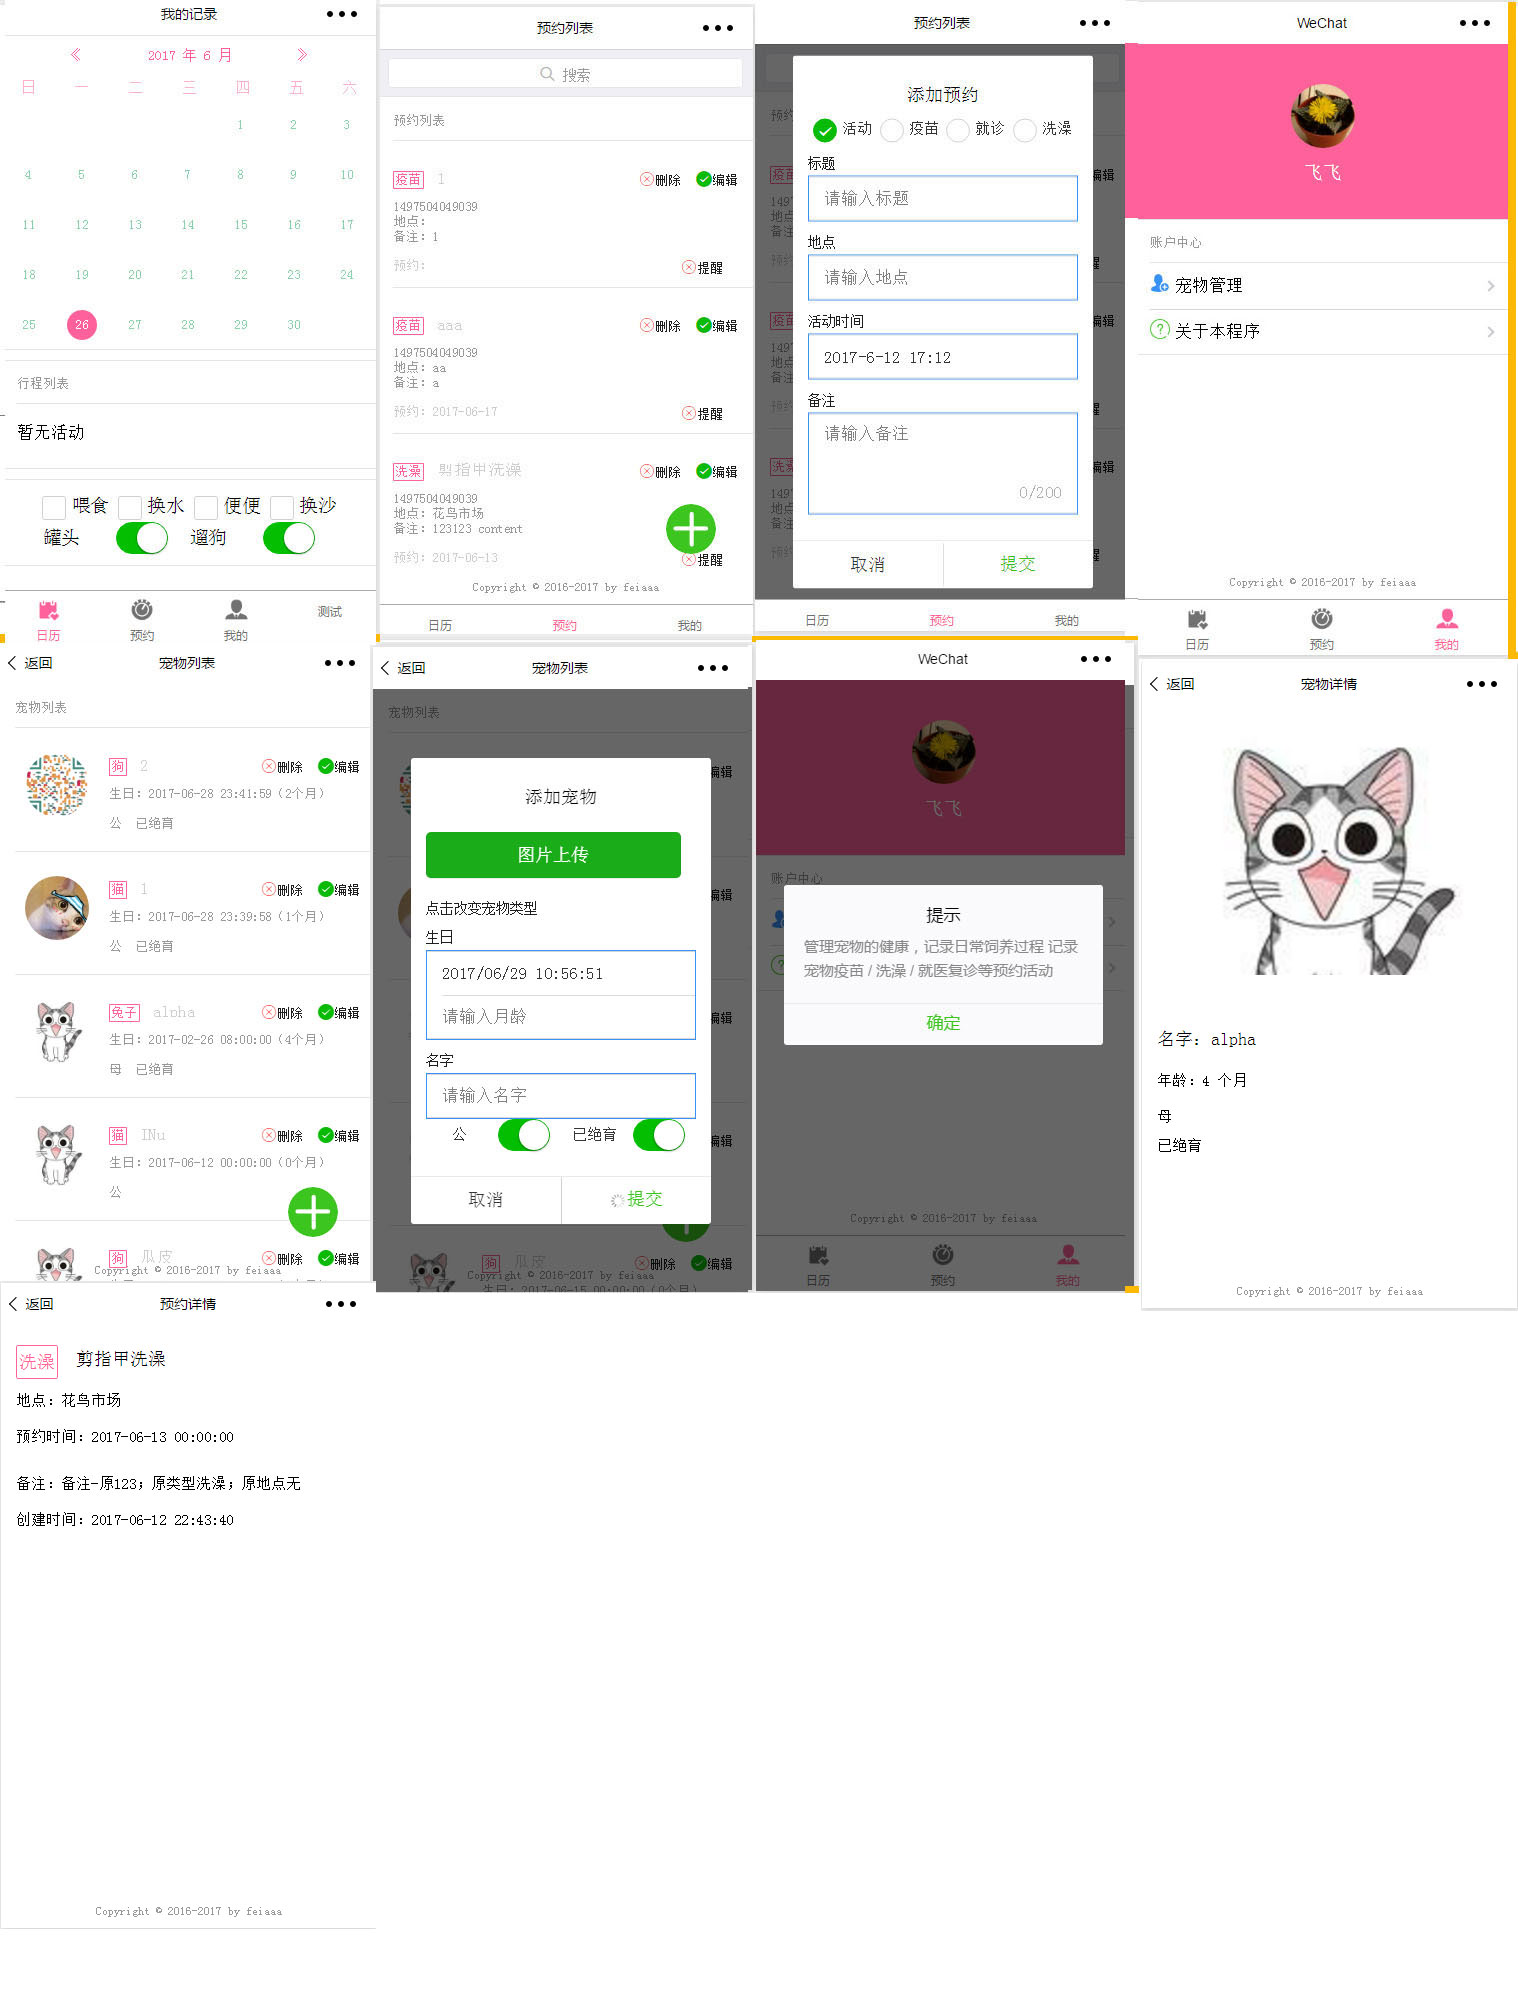
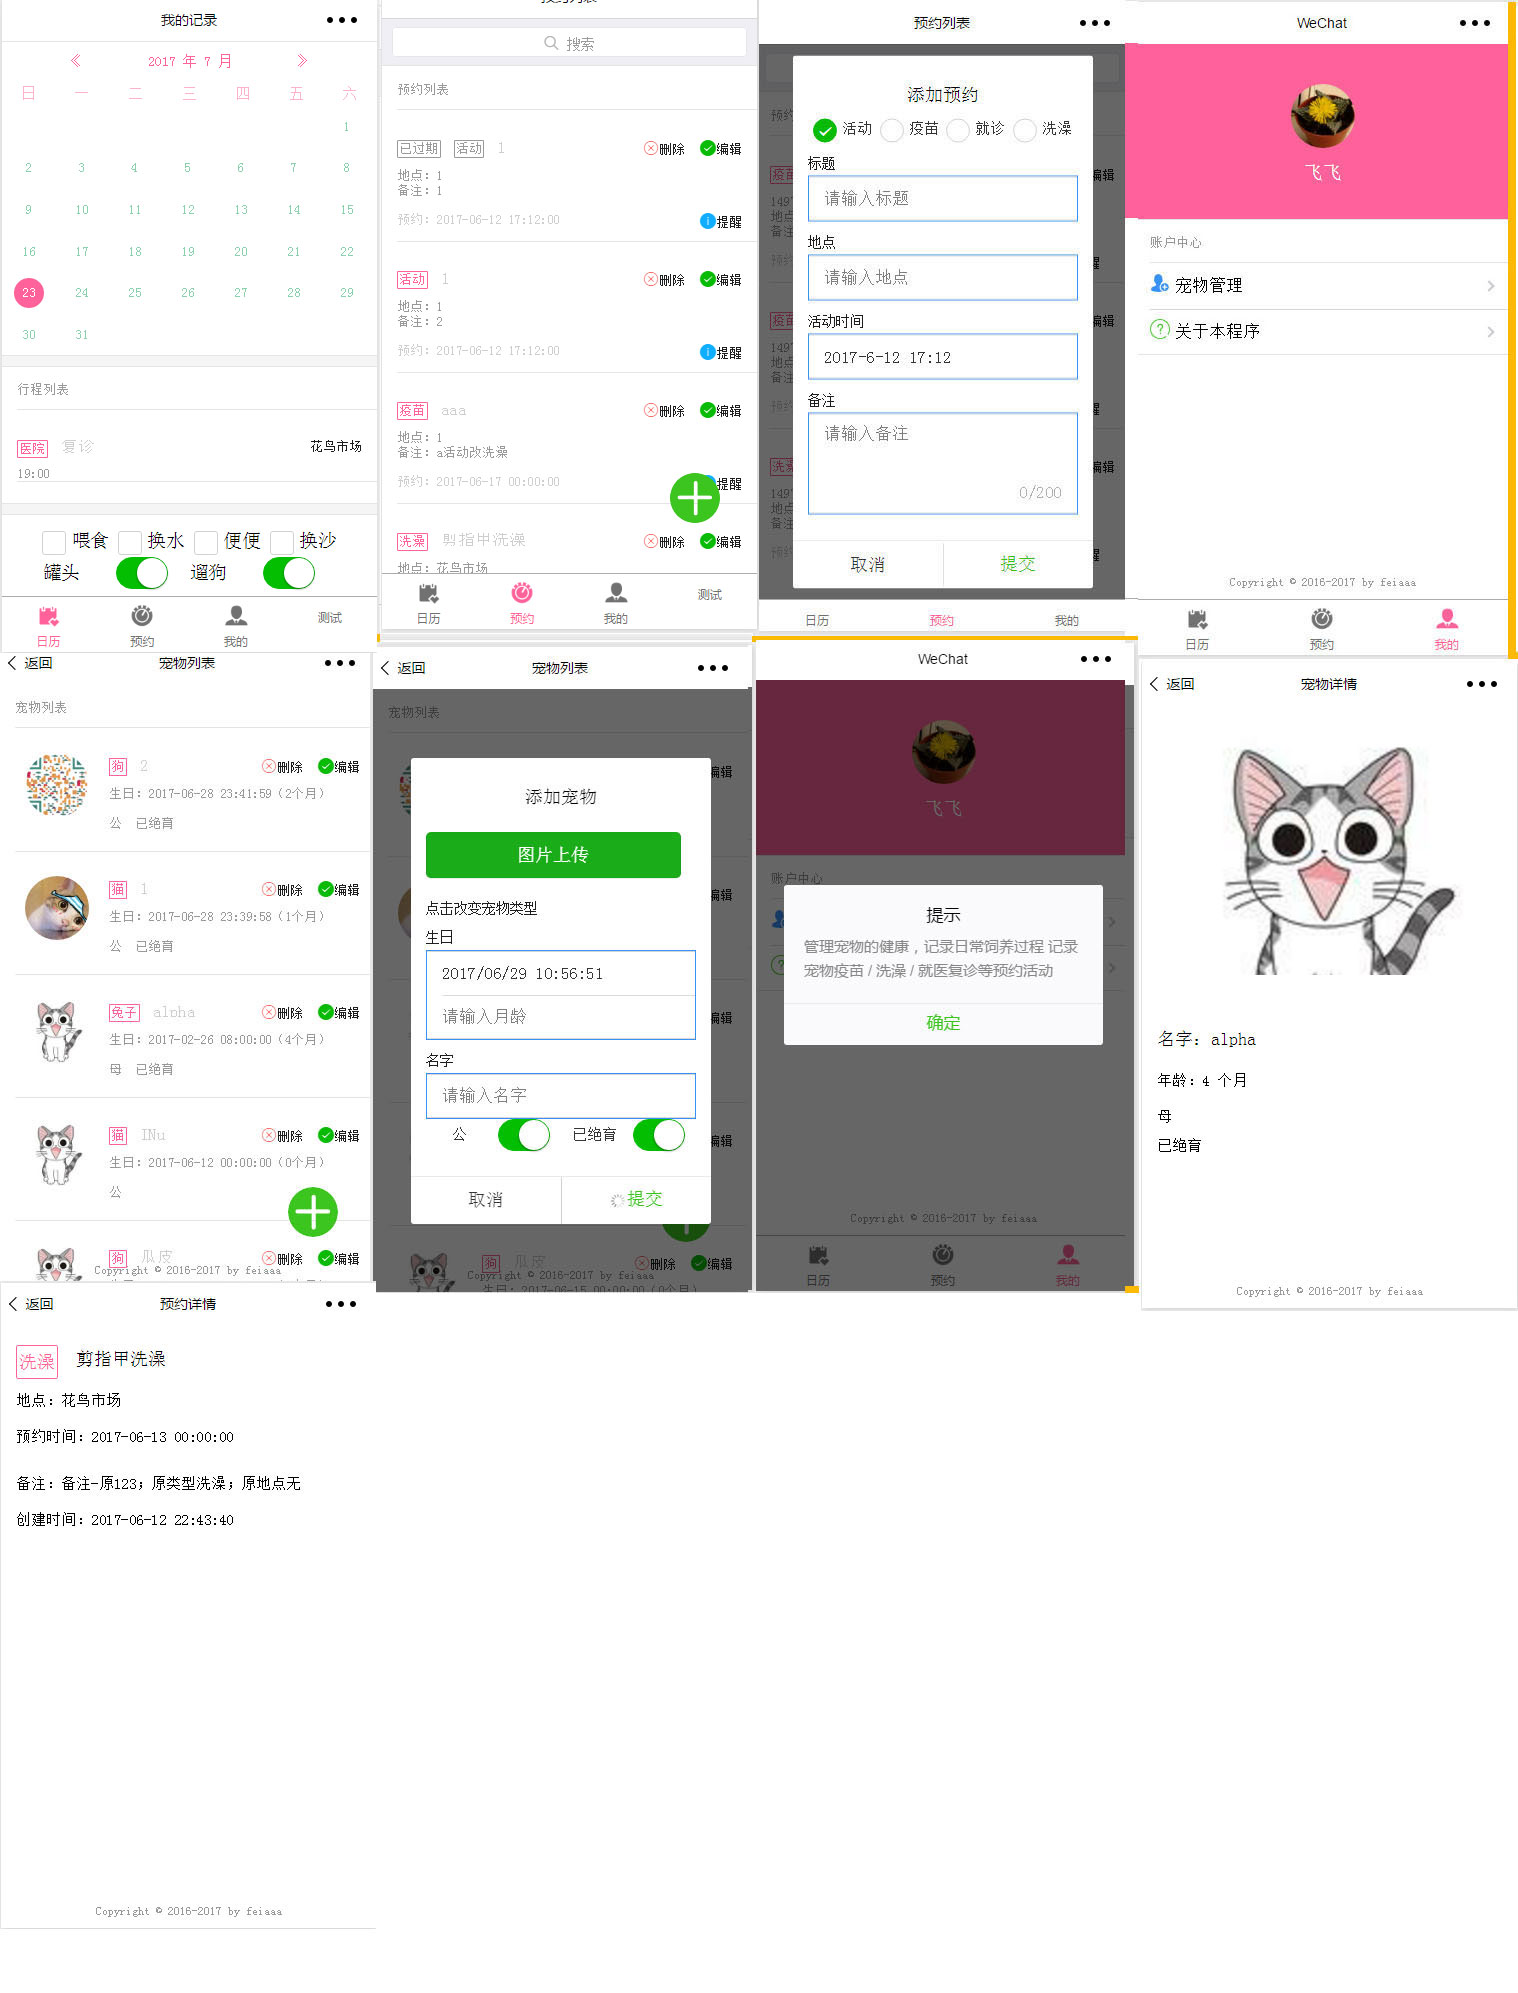
7-23

diff --git a/pages/memo/memo.js b/pages/memo/memo.js
@@ -16,8 +16,9 @@ Page({
       { name: '洗澡', value: '洗澡' }
     ],
     currentTime: Date.now(),//util.formatTime(new Date),//此处为时间戳，如果要显示当前时间用后者
-    //date: '2017-6-12',
-    time: '2017-6-12 17:12',
+    date: '2017-6-12',
+    time: '17:12',
+    //overdue: '',
     writeDiary: false,
     loading: false,
     windowHeight: 0,
@@ -49,6 +50,19 @@ Page({
       }
     })
   },
+  /**
+   * 监听日期时间picker选择器
+   */
+  listenerDatePickerSelected: function (e) {
+    this.setData({
+      date: e.detail.value
+    })
+  },
+  listenerTimePickerSelected: function (e) {
+    this.setData({
+      time: e.detail.value
+    })
+  },
   pullUpLoad: function (e) {
     var limit = that.data.limit + 2
     this.setData({
@@ -66,10 +80,10 @@ Page({
     var content = event.detail.value.content;
     var address = event.detail.value.address;//new
     var tag = event.detail.value.tag;//new
-    //var date = event.detail.value.date;//new
-    //var time = event.detail.value.time;//new
-    //var appointment=date+""+time;//new
-    var appointment=event.detail.value.time;
+    var date = event.detail.value.date;//new
+    var time = event.detail.value.time+":00";//new
+    var appointment=date+" "+time;//new
+
     if (!title) {
       common.showTip("标题不能为空", "loading");
     }
@@ -92,8 +106,9 @@ Page({
       diary.set("content", content);
       diary.set("address", address);//new
       diary.set("tag", tag);//new
-      diary.set("appointment", appointment);//new
-
+      diary.set("appointment", changeDate(appointment));//new
+      diary.set("appUnix", changeDate(appointment).getTime());//new
+      
       if (currentUser) {
         UserModel.id = currentUser.id;
         diary.set("own", UserModel);
@@ -153,13 +168,18 @@ Page({
     var nowContent = event.target.dataset.content;
     var nowTag = event.target.dataset.tag;//new
     var nowAddress = event.target.dataset.address;//new
+    var nowDate = event.target.dataset.date;//new
+    var nowTime = event.target.dataset.time;//new
+
     var nowId = event.target.dataset.id;
     that.setData({
       modifyDiarys: true,
       nowTitle: nowTitle,
       nowContent: nowContent,
-      nowTag:nowTag,//
-      nowAddress:nowAddress,//
+      //nowTag:nowTag,//
+      nowAddress: nowAddress,//
+      nowDate: nowDate,
+      nowTime: nowTime,
       nowId: nowId
     })
   },
@@ -225,7 +245,7 @@ function getList(t, k) {
   query.find({
     success: function (results) {
       // 循环处理查询到的数据
-      console.log(results);
+      //console.log(results);
       that.setData({
         diaryList: results
       })
@@ -241,11 +261,18 @@ function modify(t, e) {
   //修改日记
   var modyTitle = e.detail.value.title;
   var modyContent = e.detail.value.content;
-  //var modyAddress = e.detail.value.address;
-  var objectId = e.detail.value.content;
+  var modyTag = e.detail.value.tag;//new
+  var modyAddress = e.detail.value.address;//new
+  var modyDate = e.detail.value.date;//new
+  var modyTime = e.detail.value.time;//new
+
+
+  var objectId = e.detail.value.objectId;//原为var objectId = e.detail.value.content;
   var thatTitle = that.data.nowTitle;
   var thatContent = that.data.nowContent;
-  if (modyTitle != thatTitle ) {
+  var thatTag = that.data.nowTag;//new
+  var thatAddress = that.data.nowAddress;//new
+  if (modyTitle != thatTitle || modyContent != thatContent || modyAddress != thatAddress || modyTag != thatTag) {
     if (modyTitle == "") {
       common.showTip('标题不能为空', 'loading');
     }
@@ -260,7 +287,8 @@ function modify(t, e) {
           // 回调中可以取得这个 GameScore 对象的一个实例，然后就可以修改它了
           result.set('title', modyTitle);
           result.set('content', modyContent);
-          //result.set('address', modyAddress);
+          result.set('address', modyAddress);//new
+          result.set('tag', modyTag);//new
           result.save();
           common.showTip('日记修改成功', 'success', function () {
             that.onShow();
@@ -277,7 +305,7 @@ function modify(t, e) {
       });
     }
   }
-  else if (modyTitle == "" ) {
+  else if (modyTitle == "") {
     common.showTip('标题不能为空', 'loading');
   }
   else {
@@ -286,4 +314,15 @@ function modify(t, e) {
     })
     common.showTip('修改成功', 'loading');
   }
+}
+
+
+
+//string转date
+function changeDate(appointment) {
+  //var appointment = date + " " + time;//new
+  var val = Date.parse(appointment);
+  var newDate = new Date(appointment);
+  return newDate;
+
 }

diff --git a/README.md b/README.md
@@ -110,3 +110,13 @@ calendar页面美化，添加纵向滚条
 >2017-7-20
 修复宠物详情页/预约详情页 展示问题，样式问题
 >
+
+>2017-7-21
+修复：输入预约时间日期
+>
+>2017-7-22
+修改提醒按钮样式 
+修复：地点修改 
+添加：预约列表：判断预约事件过期； 
+日历页：铺预约事件样式
+>
